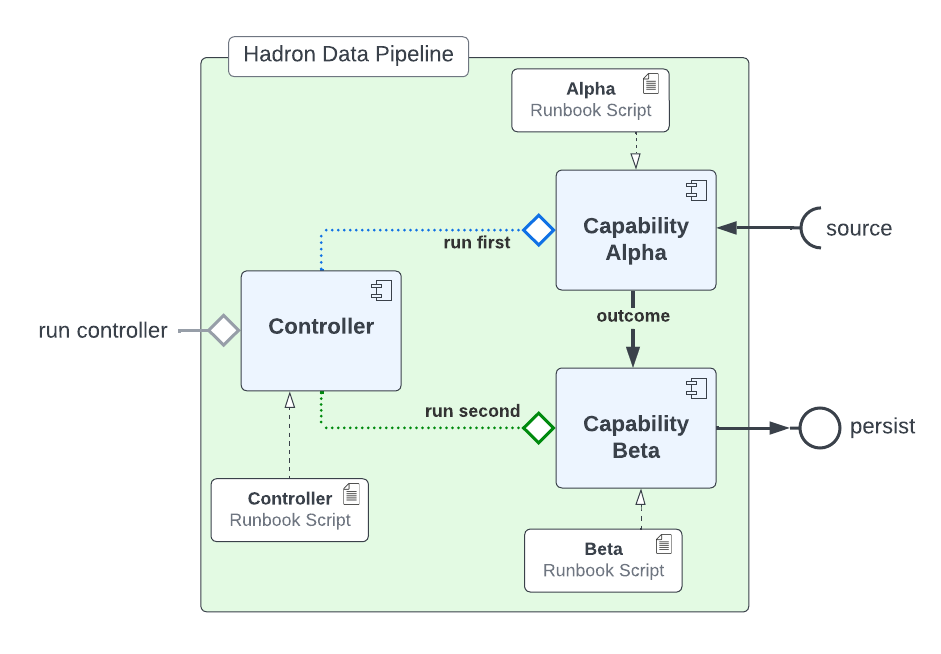
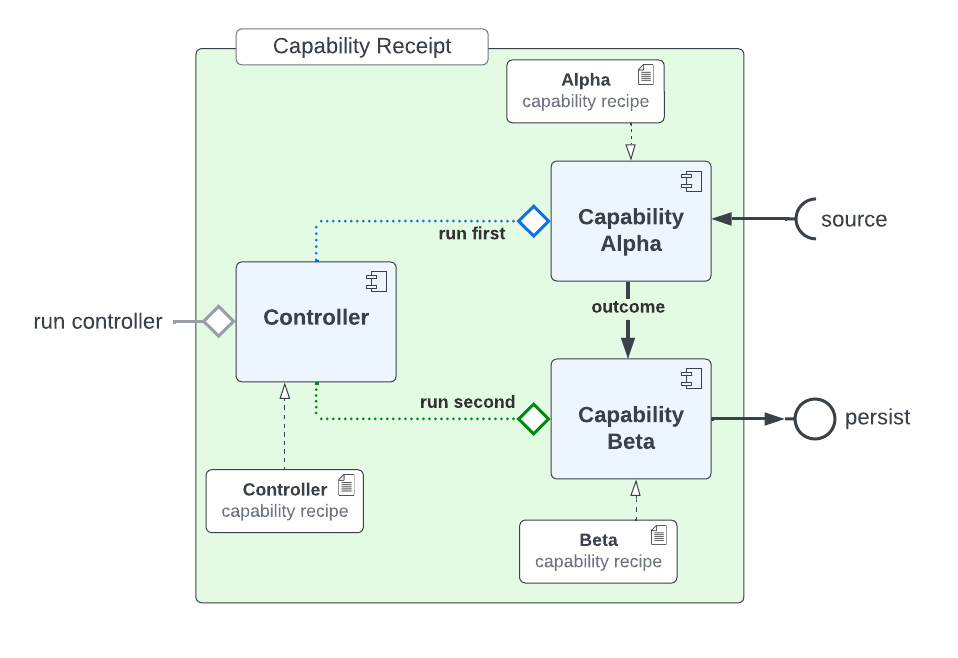
- fix get_timestamp

Changed region(s): [[0.0308, 0.0306, 0.9862, 0.948]]

diff --git a/ds_capability/intent/feature_engineer_intent.py b/ds_capability/intent/feature_engineer_intent.py
@@ -352,11 +352,13 @@ class FeatureEngineerIntent(AbstractFeatureEngineerIntentModel, CommonsIntentMod
             rtn_list = rtn_list.apply(lambda t: t.replace(second=0, microsecond=0, nanosecond=0))
         if as_num:
             return Commons.date2value(rtn_list)
+        rtn_list = self._set_quantity(rtn_list, quantity=self._quantity(quantity), seed=seed)
         if isinstance(date_format, str) and len(rtn_list) > 0:
             rtn_list = rtn_list.dt.strftime(date_format)
-        rtn_list = self._set_quantity(rtn_list, quantity=self._quantity(quantity), seed=seed)
+            arr = pc.cast(pa.Array.from_pandas(rtn_list), pa.string())
+        else:
+            arr = pc.cast(pa.TimestampArray.from_pandas(rtn_list), pa.timestamp(time_unit, timezone))
         to_header = to_header if isinstance(to_header, str) else next(self.label_gen)
-        arr = pc.cast(pa.TimestampArray.from_pandas(rtn_list), pa.timestamp(time_unit, timezone))
         return Commons.table_append(canonical, pa.table([arr], names=[to_header]))
 
     def get_intervals(self, intervals: list, canonical: pa.Table=None, relative_freq: list=None, precision: int=None,

diff --git a/test/intent/fe_model_intent_test.py b/test/intent/fe_model_intent_test.py
@@ -106,8 +106,6 @@ class FeatureEngineerModelTest(unittest.TestCase):
         self.assertEqual('double', result.column('currency').type)
         self.assertEqual([1000.0, 56.34, 0.45], result.column('currency').to_pylist())
 
-
-
     def test_model_sample_link(self):
         fe = FeatureEngineer.from_memory()
         tools: FeatureEngineerIntent = fe.tools

diff --git a/docs/conf.py b/docs/conf.py
@@ -17,6 +17,7 @@ extensions = [
     'sphinx.ext.autodoc',
     'sphinx.ext.autosummary',
     'sphinx.ext.intersphinx',
+    'sphinx.ext.autosectionlabel',
 ]
 
 intersphinx_mapping = {

diff --git a/ds_capability/__init__.py b/ds_capability/__init__.py
@@ -7,4 +7,4 @@ from ds_capability.components.controller import Controller
 
 
 # release version number picked up in the setup.py
-__version__ = '0.15.21'
+__version__ = '0.15.22'

diff --git a/docs/source/introduction/overview.rst b/docs/source/introduction/overview.rst
@@ -63,14 +63,13 @@ traceability.
 
 Where does it sit within a system pipeline?
 -------------------------------------------
-Project Hadron provides functionalities fundamental to data processing, and as such targets machine
-learning preprocessing pipeline and data processing pipeline, though its application can be applied
-far wider.
+Project Hadron provides functionalities fundamental to the optimisation and appropriateness of
+tabular data for a downstream business objective. As such it places itself as a machine learning
+preprocessing or data processing step, though its application can be applied far wider.
 
-Here we use the term "preprocessing" in the context of data science and machine learning
-referring to data selection, feature engineering and feature transformation as steps to clean,
-format, and organize source data into a suitable format for the process of model evaluation &
-tuning.
+Preprocessing, in the context of data science and machine learning, refers to data selection,
+feature engineering and feature transformation as steps to clean, format, and organize source
+data into a suitable format for the process of model evaluation and tuning.
 
 .. image:: /source/_images/introduction/machine_learning_pipeline_v01.png
   :align: center
@@ -78,16 +77,18 @@ tuning.
 
 \
 
-This same process exists in 'The Three Stages of Data Processing', but in this case known
-simply as data processing. The architecture consists of three essential elements: a source or
-sources, processing steps, and a destination. Similar to thr machine learning preprocessing,
-these steps include transformation, augmentation, filtering, grouping, and aggregation.
+This same process exists in 'The Three Stages of Data Processing', where the architecture consists
+of three essential elements: a source or sources, processing steps, and a destination. Similar to
+the machine learning preprocessing, these steps include transformation, augmentation, filtering,
+grouping, and aggregation.
 
 .. image:: /source/_images/introduction/three_phase_pipeline_v01.png
   :align: center
   :width: 650
 
 \
+
+.. _What are capabilities?:
 
 What are capabilities?
 ----------------------
@@ -111,8 +112,11 @@ Both principles contribute to building modular, robust and scalable software sol
 
 Then what is a capability recipe?
 ---------------------------------
-In order to capture a set of capabilities into a reusable microservice, Project Hadron creates a 
-recipe of capabilities encapsulating how they should run.
+Capabilities, on their own, are tightly focused on their concerns, albeit with a use case in mind.
+It is not till we collectively link our capabilities in a meaningful order, we build our reusable use case or
+microservice. In order to capture a set of capabilities into a reusable
+microservice, Project Hadron creates a collection of capabilities, and their actions, that relate
+to a reusable test to a encapsulating how they should run.
 
 It has been built as a set of capabilities to handle the
 different types of processing data. These are Data Selection, Feature Engineering, Feature
@@ -126,8 +130,8 @@ the running order of these capabilities, that form the microservice.
 
 \
 
-From the diagram you can see the encapsulated microservice within which the Hadron capabilities exists.
-This is referred to as a capability recipe, and each capability referred to as a component
+From the diagram you can see the encapsulated microservice within which the Hadron capabilities
+exists. This is referred to as a capability recipe, and each capability referred to as a component
 capability or just a component.  Each component has their own runbook script which defines the
 component and how it runs. The Controller also has its own runbook script which describes how the
 capability recipe should run.
@@ -161,29 +165,29 @@ three microservices with the responsibility of managing the pipeline with the en
 This allows the designer and implementer to choose the best way to manage and monitor a set of
 capability recipes.
 
-Where can it be applied?
-------------------------
-Project Hadron is targeted at data improvement for all types of data processing and runs in the
-relevant environment for the user of the tool. It can run as (1) a complementary functional toolkit in
+Where can Project Hadron be applied?
+------------------------------------
+Project Hadron can run as (1) a complementary functional toolkit in
 Jupyter Notebooks for Data Scientists, (2) an object oriented collection of abstract and concrete
 classes for a Python IDE, such as PyCharm or Visual Studio, (3) or an implementation of a script
 image into a Docker environment or as a collection of Microservices in a cloud-native
-architecture. Its light footprint and quick-to-market design lends itself perfectly to pilots and
-POCs when including its extensive interoperability. It targets Data Science environments, allowing a vastly
-improved set of background systems for data management and idea sharing, of knowledge retention and
-separation of concerns. It integrates with familiar Data Science tools while offering functions to
-uncover features, provide robustness, and elevate ideas to a broad audience.
+architecture.
 
-Who would use it?
------------------
+Written in pure Python and depends on only a few well-established and supported Python packages,
+Project Hadron's quick-to-market design lends itself pilots and with extensive interoperability,
+POCs. Its robustness and reuse along with its implementation as microservices place it in any
+larger project for data analytics and data processing.
+
+Who would use Project Hadron?
+-----------------------------
 As a Data Scientist. Project Hadron requires a knowledge of Python 3.8+, PyArrow, Pandas, Numpy as
 a core with a skilled blend of domain expertise, inference and the ability to adopt alternative
 systems to improve project sharing and feature identification. An understanding of Jupyter
 Notebooks or Jupyter Lab.
 
 As a software developer, Project Hadron requires a knowledge of Python 3.8+ and PyArrow. A good
-understanding of some sort of Python interface, or Python IDE such as PyCharm or Visual Studio or as
-Jupyter Notebooks. Data selection, feature engineering and feature transition are the most
+understanding of some sort of Python interface, or Python IDE such as PyCharm or Visual Studio or
+as Jupyter Notebooks. Data selection, feature engineering and feature transition are the most
 essential part of Hadron, building a usable data pipeline and involves a skilled blend of domain
 expertise, intuition and lateral thought.
 
@@ -204,10 +208,18 @@ PyArrow enhances Pandas by providing a more efficient, columnar data representat
 facilitates seamless interoperability with other systems, improved performance, and support for
 efficient file formats like Parquet. It extends Pandas' capabilities, especially in scenarios
 where performance and data interchange with other systems are critical. These benefits have
-contributed to its wide usage in data engineering, analytics, and other data-intensive applications.
+contributed to its wide usage in data engineering, analytics, and other data-intensive
+applications.
 
-Main features
--------------
+For more information visit `Apache Arrow`_
+
+.. _Apache Arrow: https://arrow.apache.org/
+
+Quick glance features
+---------------------
+
+Capabilities
+~~~~~~~~~~~~
 
 * Data Selection
 * Feature Creation
@@ -219,13 +231,14 @@ Performance
 ~~~~~~~~~~~
 
 * Apache PyArrow Canonical
+* improved memory management
 * large Data Processing
 * Interoperability
 * MicroServices
 * Reuse
 
-Data Reporting
-~~~~~~~~~~~~~~
+Reporting
+~~~~~~~~~
 
 * Data Lineage
 * Data Profiling

diff --git a/docs/index.rst b/docs/index.rst
@@ -1,13 +1,17 @@
-.. discovery_capability documentation master file, created by
-   sphinx-quickstart on Sun Jan  7 12:16:54 2024.
-   You can adapt this file completely to your liking, but it should at least
-   contain the root `toctree` directive.
+Project Hadron
+==============
 
-Project Hadron Discovery Capability
-===================================
+**Project Hadron** is an open-source application framework for preprocessing, feature creation,
+data analysis and transformation of tabular datasets. With PyArrow as its canonical, and a more
+directed use of pandas, Project Hadron offers extensive interoperability, improved memory
+management and hardware optimization for the processing of large datasets fast.
+
+Project Hadron is a selection of :ref:`capabilities<What are capabilities?>` that represent an
+encapsulated set of actionAs an example, FeatureSelection, a capability class, encapsulates
+cleaning data by removing uninformative columns from a data table.
 
 .. toctree::
-   :maxdepth: 2
+   :maxdepth: 1
    :caption: Contents:
 
    source/introduction/overview

diff --git a/docs/source/quick_start/beginning.rst b/docs/source/quick_start/beginning.rst
@@ -29,9 +29,10 @@ the `suggested resources in the learnpython-subreddit`_.
 .. _Learn Python 3 The Hard Way: https://learnpythonthehardway.org/python3/
 .. _suggested resources in the learnpython-subreddit: https://www.reddit.com/r/learnpython/wiki/index#wiki_new_to_python.3F
 
-As actions
-----------
-You can run Gradio in your favorite code editor, Jupyter notebook, Google Colab, or anywhere else you write Python.
+Basic usage
+-----------
+You can run Project Hadron in your favorite code editor, Jupyter notebook, Google Colab, or
+anywhere else you write Python.
 
 Feature Build
 
